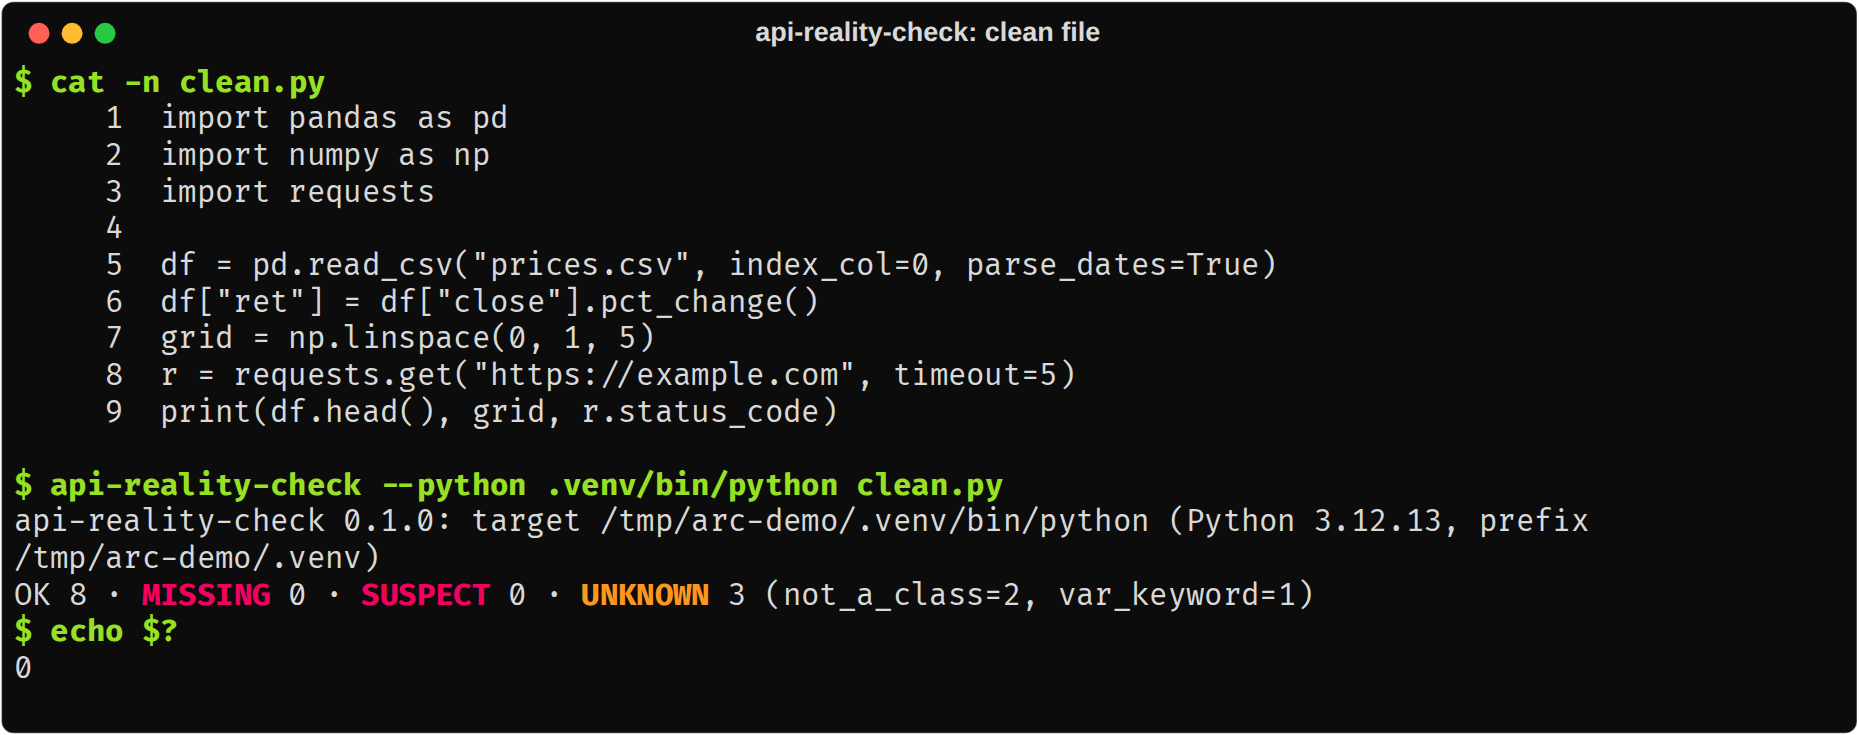
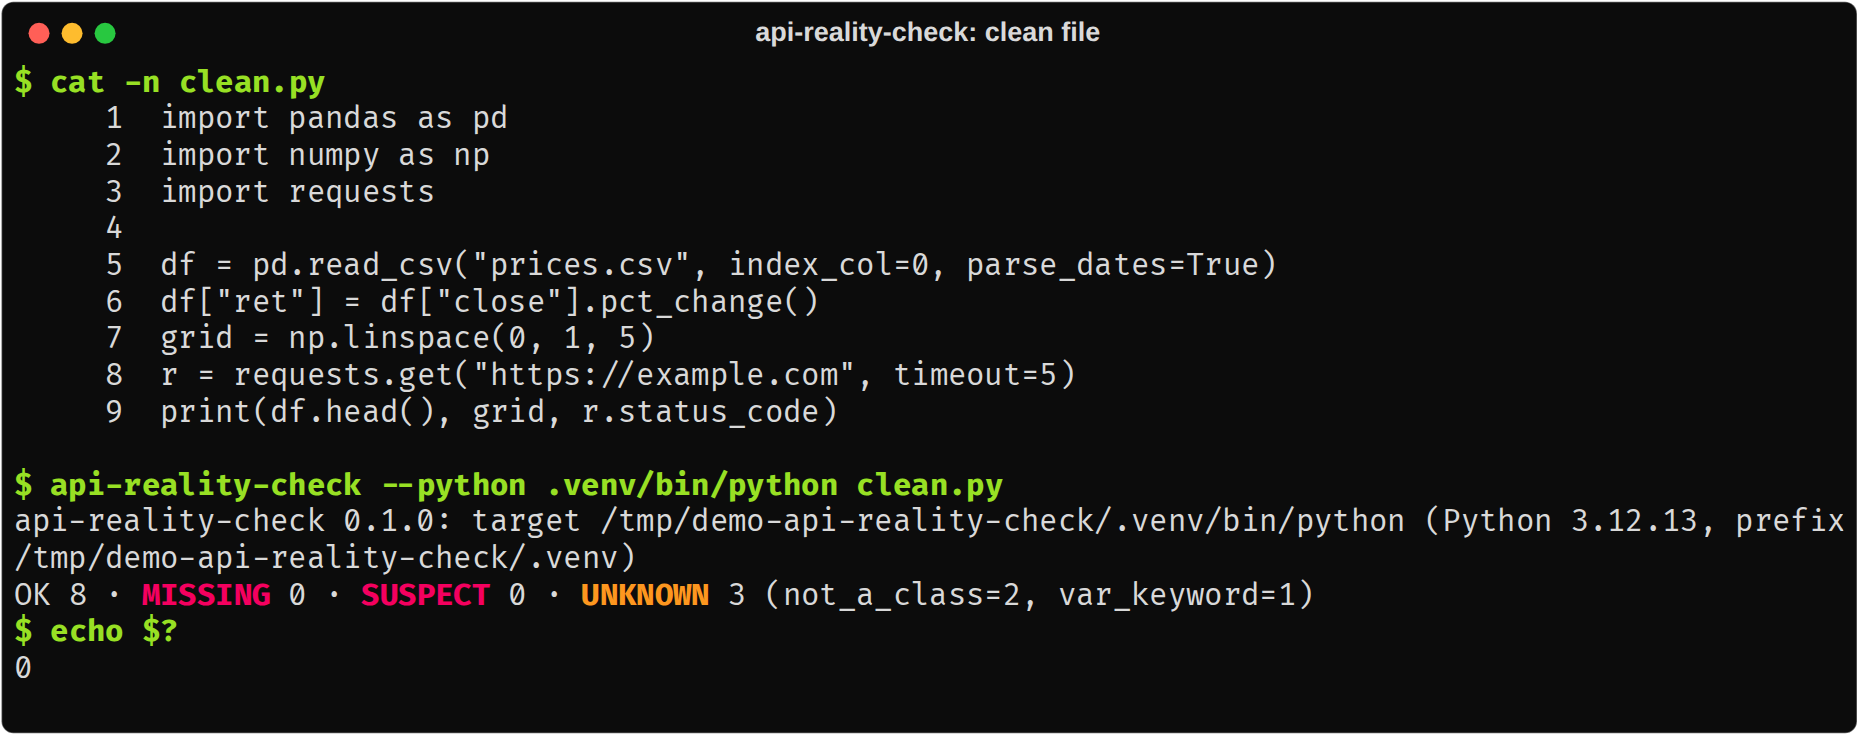
docs: screenshots use their own demo dir and never delete a foreign one (#3)
scripts/screenshots.py now works in /tmp/demo-api-reality-check instead of
/tmp/arc-demo, and only deletes that directory when it holds the marker
file the script itself writes; otherwise it stops with a message. Before,
it removed the directory unconditionally, which could delete a folder the
script did not create. Images regenerated and checked; none of the
previous images came from the shared /tmp/demo.

Changed region(s): [[0.3744, 0.6884, 0.9984, 0.7483], [0.0624, 0.7483, 0.3432, 0.7782]]

diff --git a/scripts/screenshots.py b/scripts/screenshots.py
@@ -13,9 +13,9 @@ First run only, if Chromium is missing:
     uv run --with playwright==1.62.0 python -m playwright install chromium
 
 What it does:
-  1. Recreates /tmp/arc-demo (neutral dir). Builds /tmp/arc-demo/.venv (target libraries: pandas, numpy,
-     requests, pinned) and /tmp/arc-demo/tool (api-reality-check installed from this repo).
-  2. Writes short demo files, runs the REAL commands with cwd=/tmp/arc-demo, HOME=/tmp/arc-demo,
+  1. Recreates /tmp/demo-api-reality-check (neutral dir). Builds /tmp/demo-api-reality-check/.venv (target libraries: pandas, numpy,
+     requests, pinned) and /tmp/demo-api-reality-check/tool (api-reality-check installed from this repo).
+  2. Writes short demo files, runs the REAL commands with cwd=/tmp/demo-api-reality-check, HOME=/tmp/demo-api-reality-check,
      USER=demo and relative arguments, and captures stdout+stderr and exit codes.
   3. Renders each session as a terminal frame (rich SVG), then converts it to PNG with
      headless Chromium (Playwright).
@@ -38,7 +38,7 @@ from rich.text import Text
 
 REPO = Path(__file__).resolve().parent.parent
 OUT = REPO / "docs" / "images"
-DEMO = Path("/tmp/arc-demo")
+DEMO = Path("/tmp/demo-api-reality-check")
 SVG_DIR = DEMO / "svg"
 LIBS = ["pandas==3.1.0", "numpy==2.5.4", "requests==2.34.2"]
 FORBIDDEN = ["/home/", "rajib", "@gmail", "github_pat_", "ghp_"]
@@ -81,13 +81,13 @@ grid = np.linspce(0, 1, 5)
 
 PAYLOAD = (
     '{"hook_event_name":"PostToolUse","tool_name":"Write",'
-    '"tool_input":{"file_path":"/tmp/arc-demo/project/app.py"},"cwd":"/tmp/arc-demo/project"}'
+    '"tool_input":{"file_path":"/tmp/demo-api-reality-check/project/app.py"},"cwd":"/tmp/demo-api-reality-check/project"}'
 )
 
 HOOK_CMD = (
-    "CLAUDE_PLUGIN_ROOT=/tmp/arc-demo/plugins/api-reality-check "
-    "CLAUDE_PROJECT_DIR=/tmp/arc-demo/project "
-    "API_REALITY_CHECK_PYTHON=/tmp/arc-demo/.venv/bin/python "
+    "CLAUDE_PLUGIN_ROOT=/tmp/demo-api-reality-check/plugins/api-reality-check "
+    "CLAUDE_PROJECT_DIR=/tmp/demo-api-reality-check/project "
+    "API_REALITY_CHECK_PYTHON=/tmp/demo-api-reality-check/.venv/bin/python "
     "python3 -I -S -B plugins/api-reality-check/hooks/run_hook.py < payload.json > out.json"
 )
 
@@ -120,11 +120,11 @@ SHOTS = [
 
 # Environment for every demo command: no real HOME, USER or PATH entries from this machine.
 DEMO_ENV = {
-    "HOME": "/tmp/arc-demo",
+    "HOME": "/tmp/demo-api-reality-check",
     "USER": "demo",
     "LOGNAME": "demo",
     "PS1": "$ ",
-    "PATH": "/tmp/arc-demo/tool/bin:/usr/local/bin:/usr/bin:/bin",
+    "PATH": "/tmp/demo-api-reality-check/tool/bin:/usr/local/bin:/usr/bin:/bin",
     "LANG": "C.UTF-8",
     "COLUMNS": str(WIDTH),
 }
@@ -134,10 +134,17 @@ def run(cmd: list[str], **kw) -> subprocess.CompletedProcess:
     return subprocess.run(cmd, check=True, text=True, capture_output=True, **kw)
 
 
+MARKER = DEMO / ".made-by-api-reality-check-screenshots"
+
+
 def setup() -> None:
+    # Only delete a directory this script made: it holds the marker file.
     if DEMO.exists():
+        if not MARKER.is_file():
+            sys.exit(f"{DEMO} exists but was not made by this script; remove it yourself or change DEMO.")
         shutil.rmtree(DEMO)
     DEMO.mkdir(parents=True)
+    MARKER.write_text("")
     run(["uv", "venv", "--python", "3.12", str(DEMO / ".venv")])
     run(["uv", "pip", "install", "--python", str(DEMO / ".venv/bin/python"), *LIBS])
     run(["uv", "venv", str(DEMO / "tool")])

diff --git a/scripts/README.md b/scripts/README.md
@@ -13,7 +13,7 @@ It needs `uv`, network or a warm uv cache, and a Playwright Chromium that matche
 uv run --with playwright==1.62.0 python -m playwright install chromium
 ```
 
-The script rebuilds `/tmp/arc-demo` on every run (it deletes that directory first). It installs
+The script rebuilds `/tmp/demo-api-reality-check` on every run (it deletes that directory first, but only if the directory holds the marker file that the script writes; otherwise it stops). It installs
 pinned pandas, numpy and requests in a target venv, installs the tool from this clone in a
 separate venv, runs the real commands, and renders terminal-style PNGs. It exits non-zero and
 deletes the PNGs if any text contains `/home/`, `rajib`, `@gmail`, `github_pat_` or `ghp_`.
